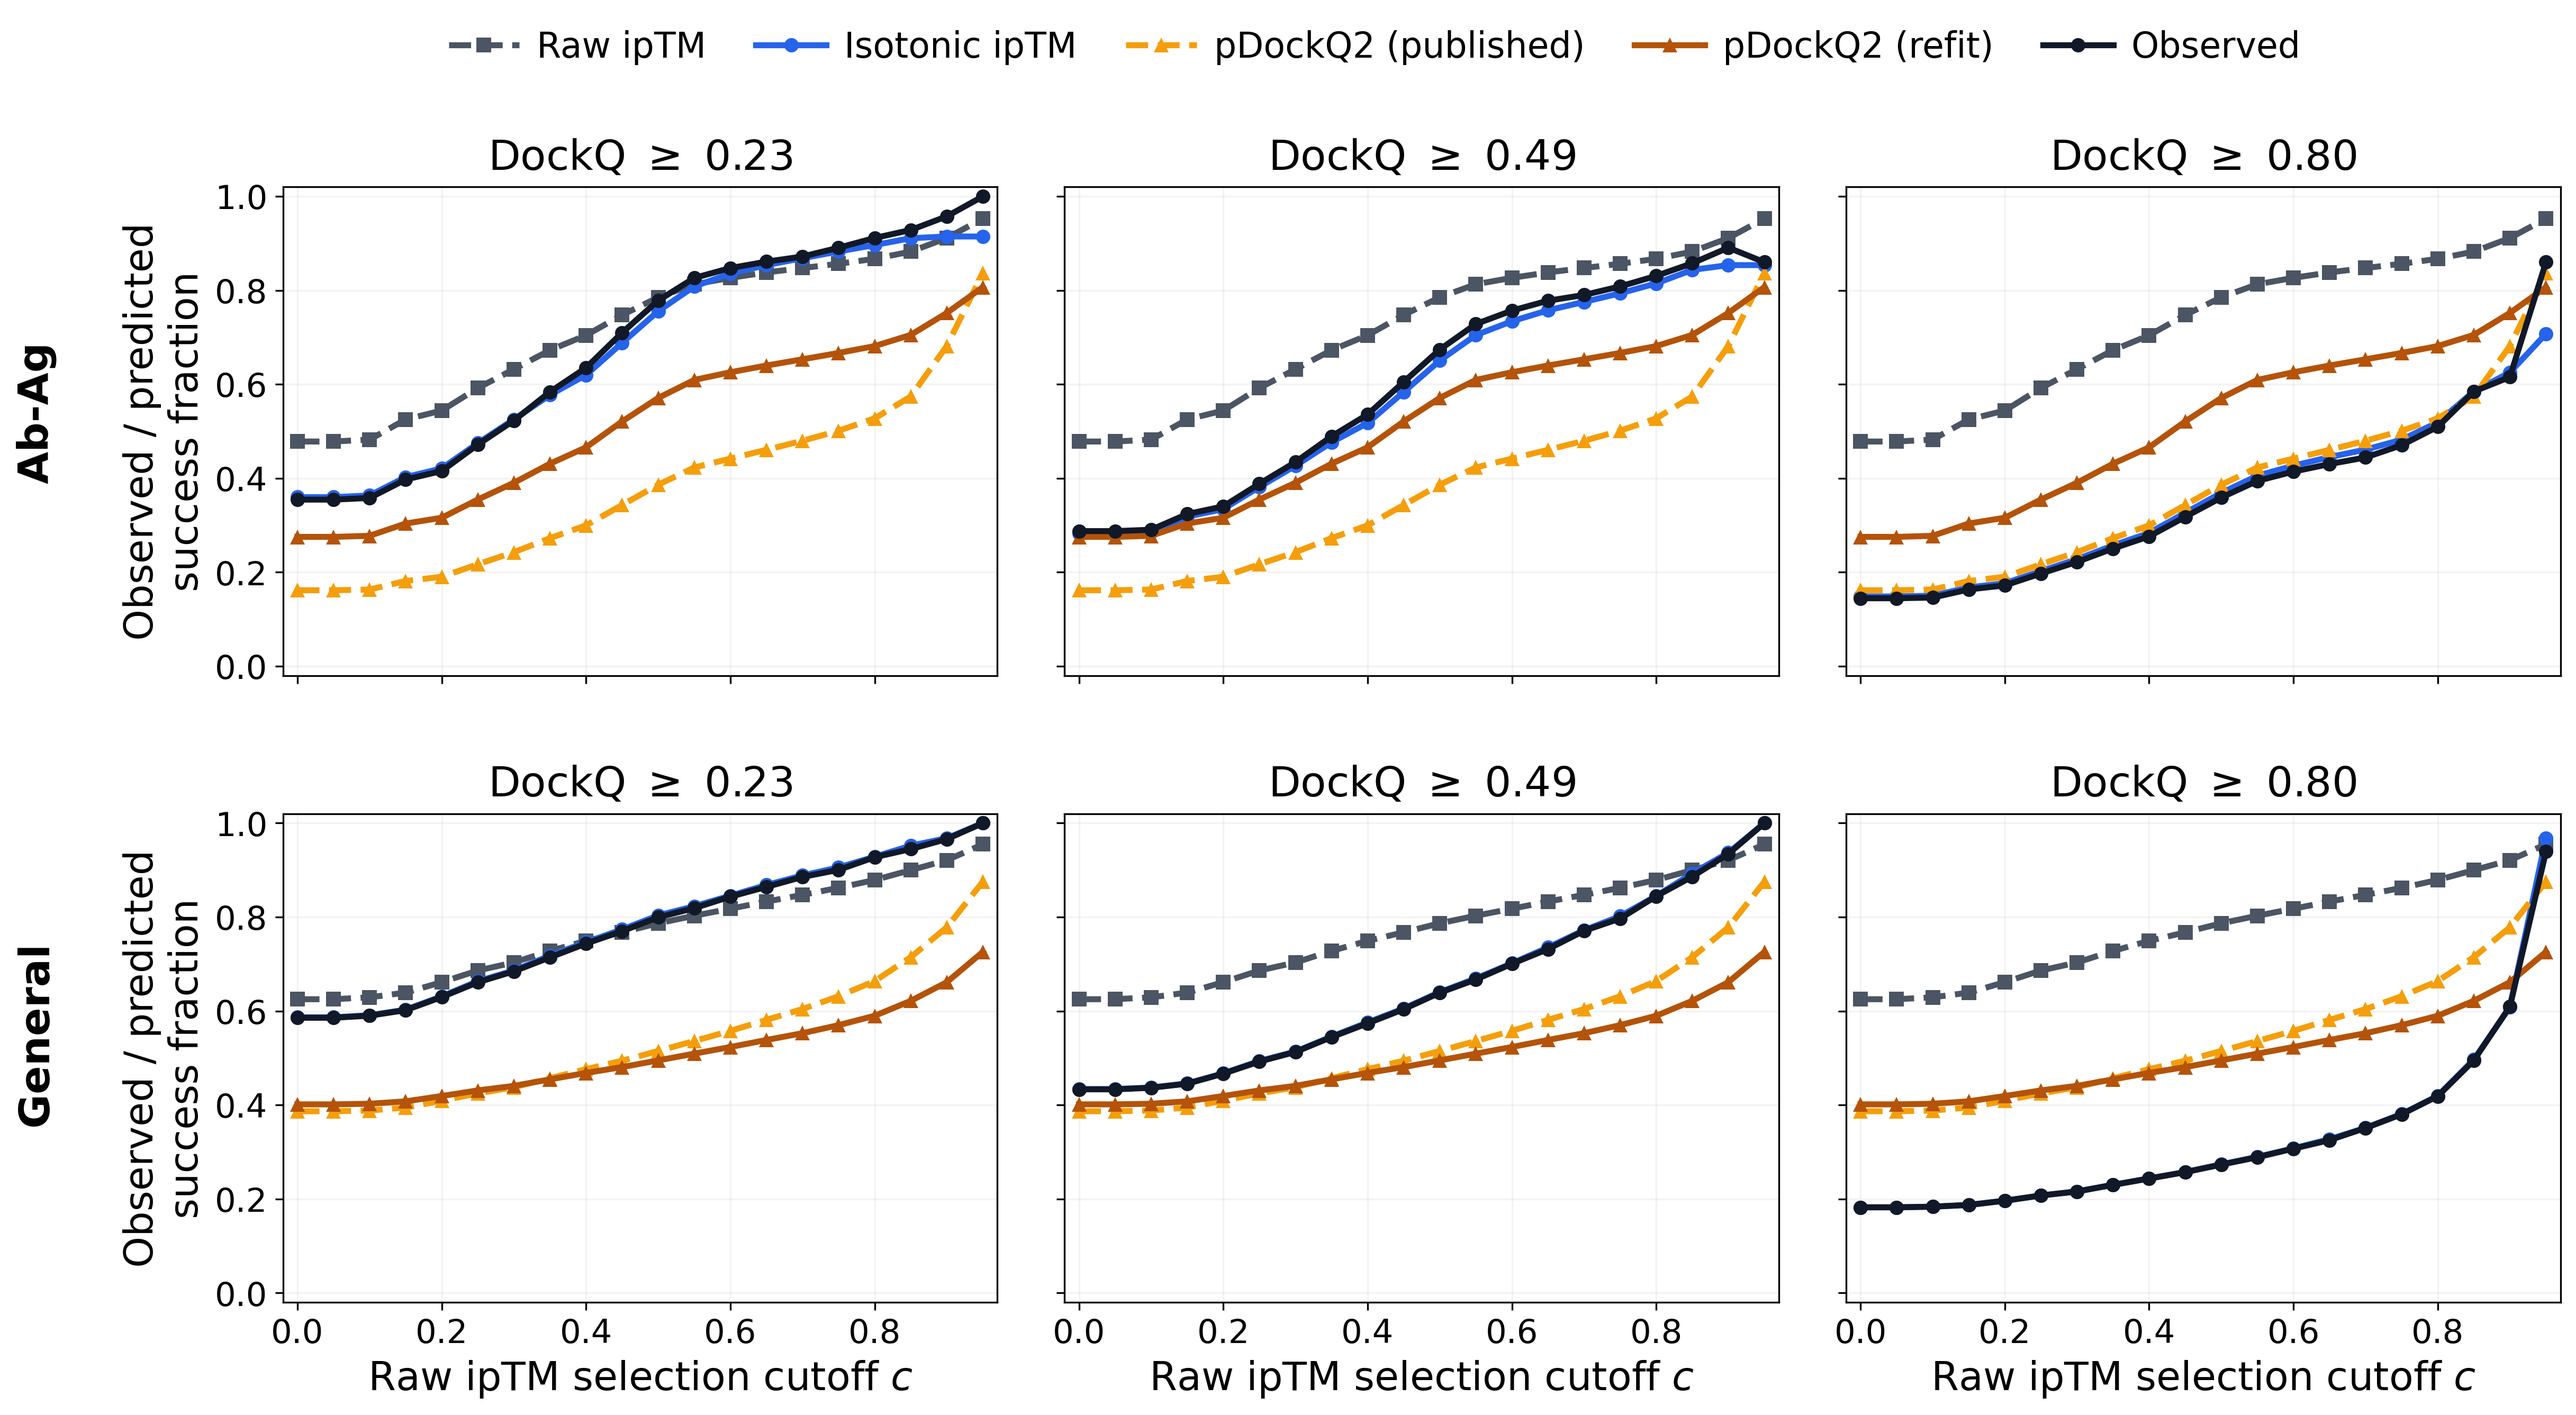
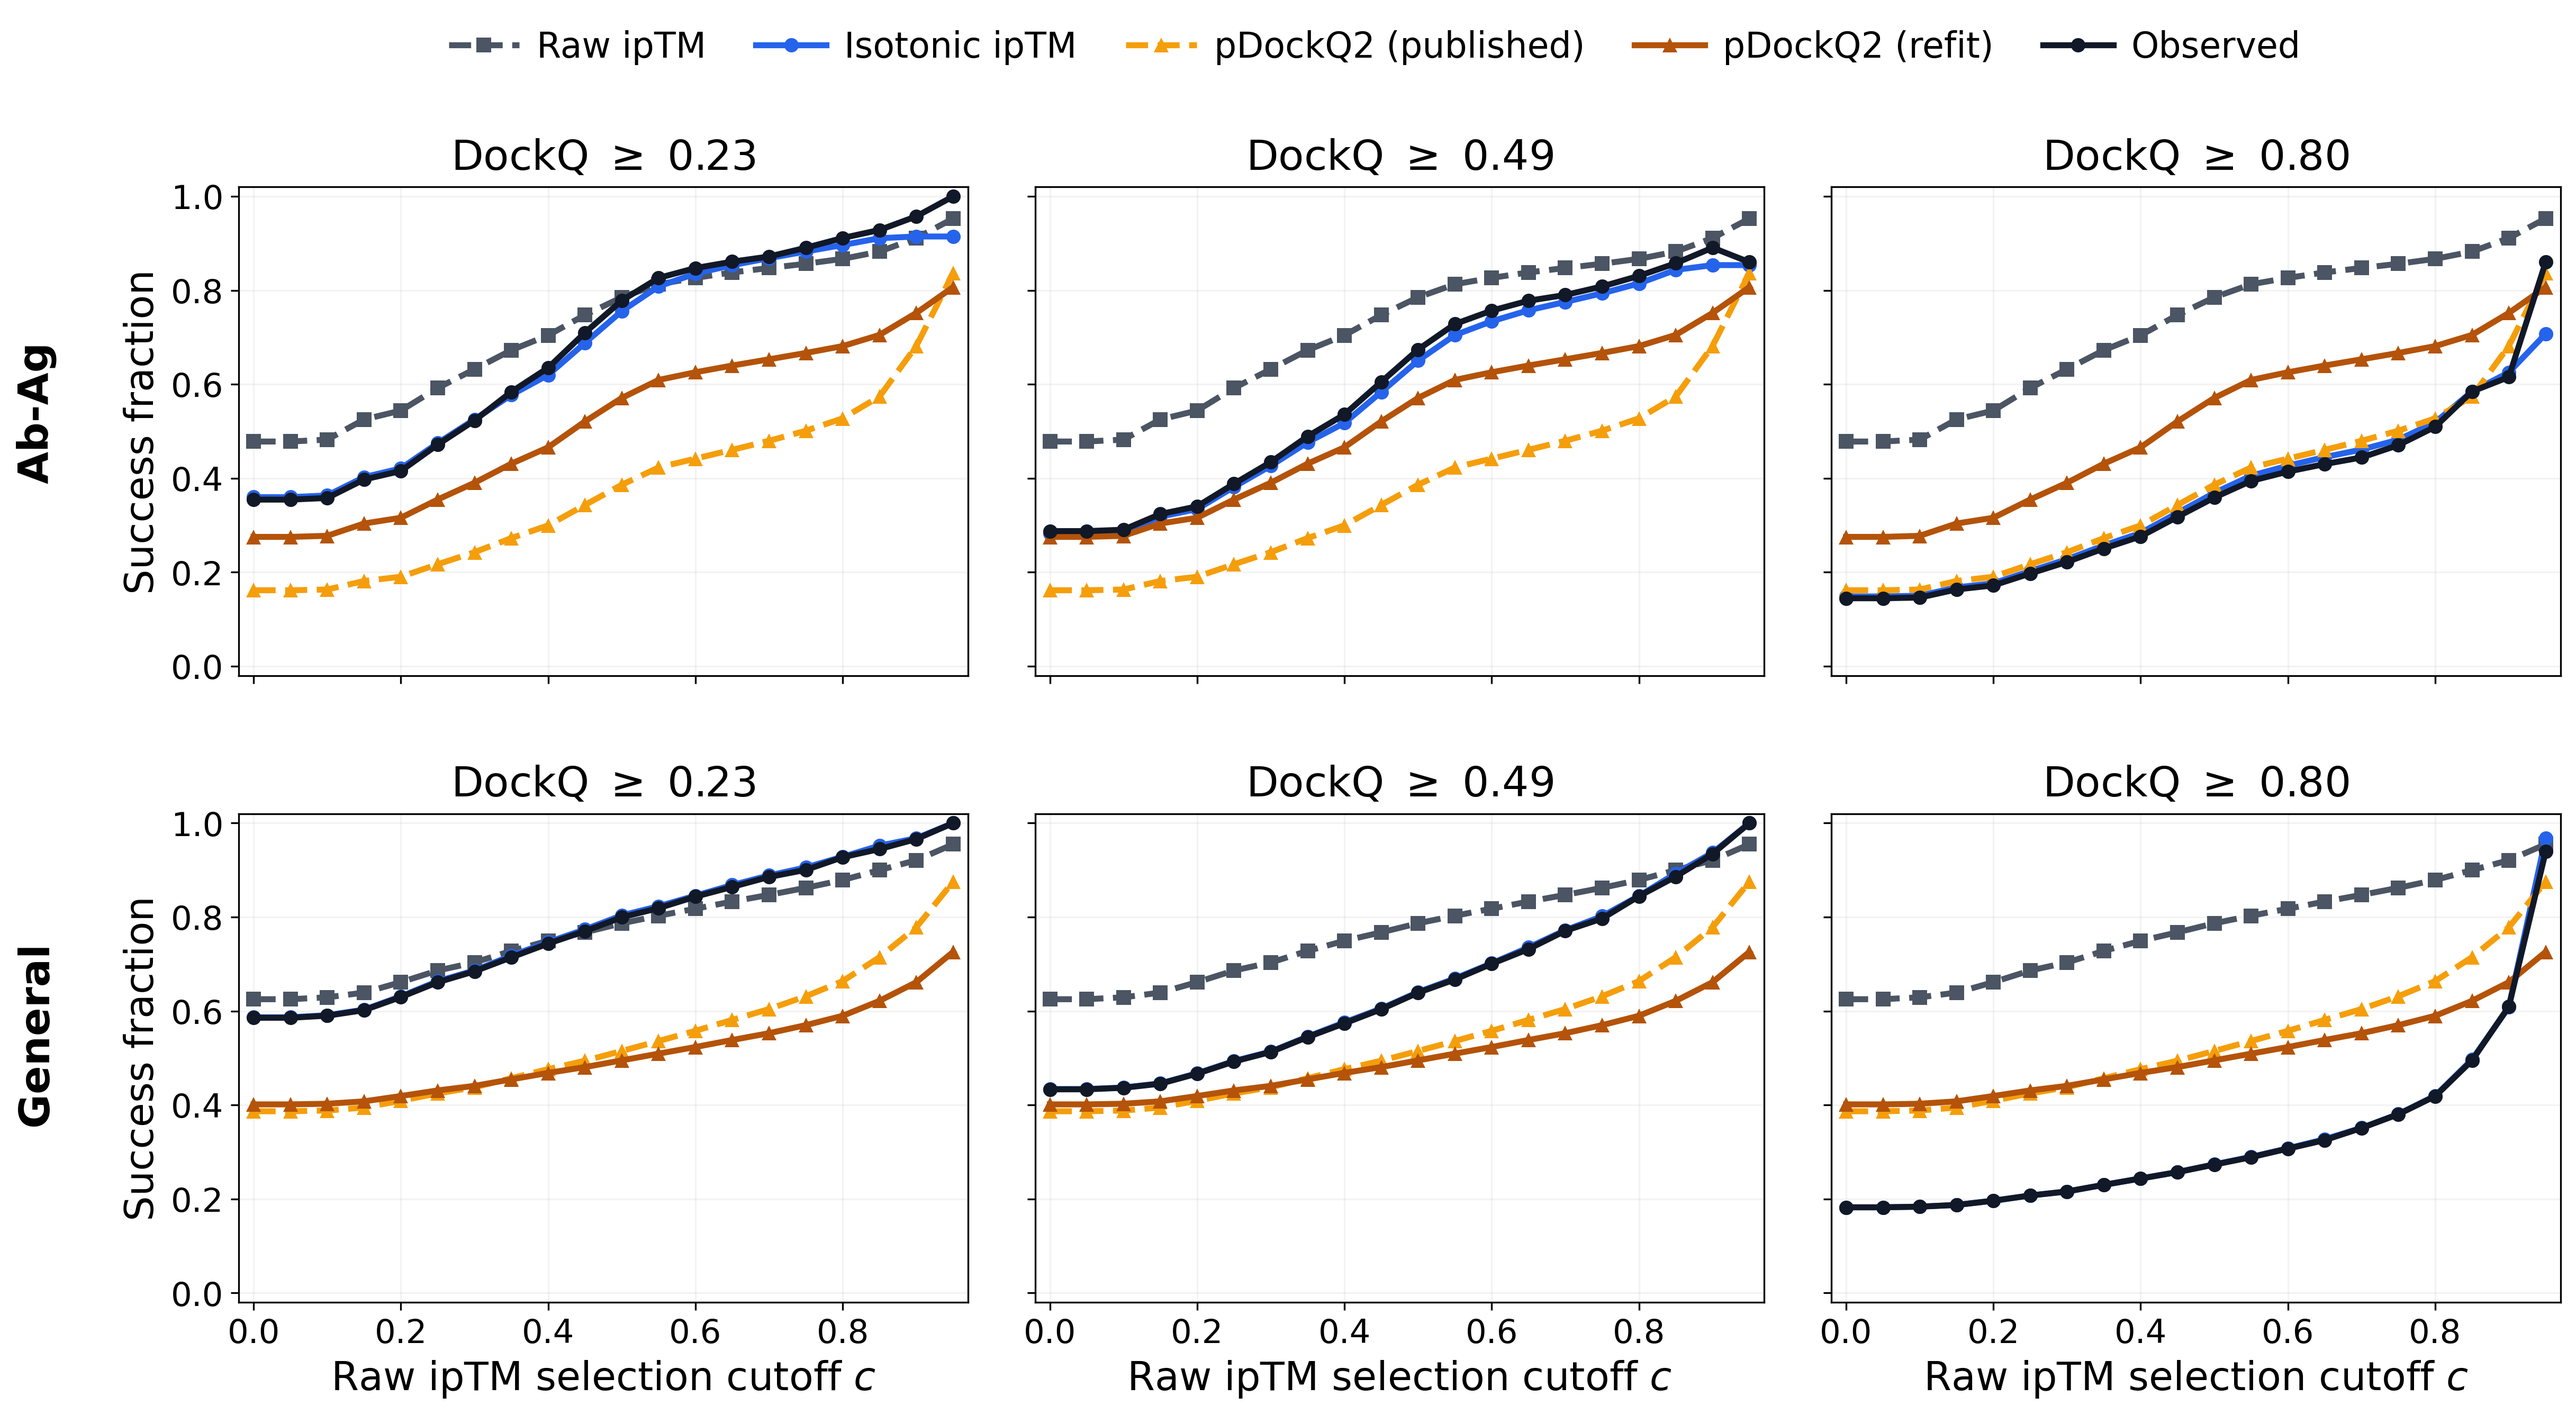
Simplify F7 success fraction label

diff --git a/scripts/render_workshop_iptm_selected_probability.py b/scripts/render_workshop_iptm_selected_probability.py
@@ -113,7 +113,7 @@ def main() -> None:
             ax.set_yticks([0.0, 0.2, 0.4, 0.6, 0.8, 1.0])
             ax.grid(True, alpha=0.15, linewidth=0.8)
             if col == 0:
-                ax.set_ylabel("Observed / predicted\nsuccess fraction")
+                ax.set_ylabel("Success fraction")
             if row == 1:
                 ax.set_xlabel("Raw ipTM selection cutoff $c$")
 
